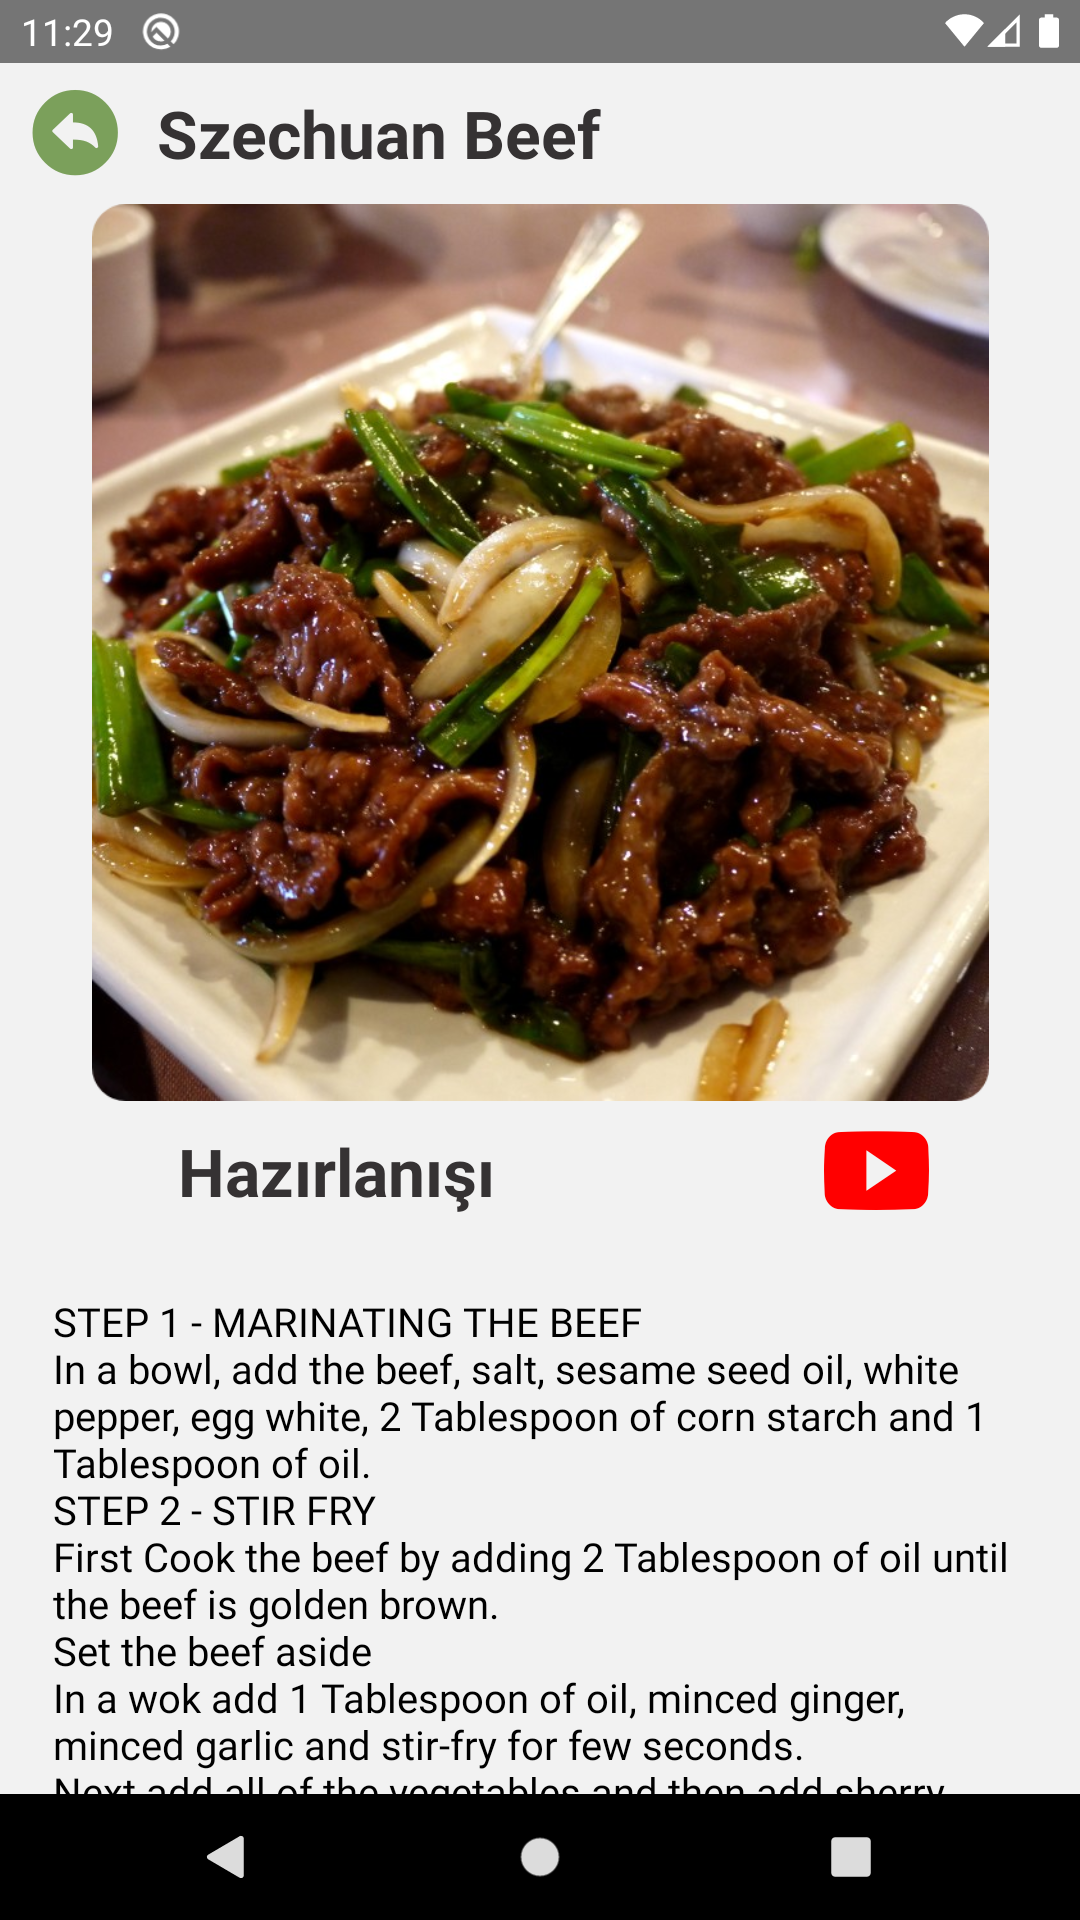
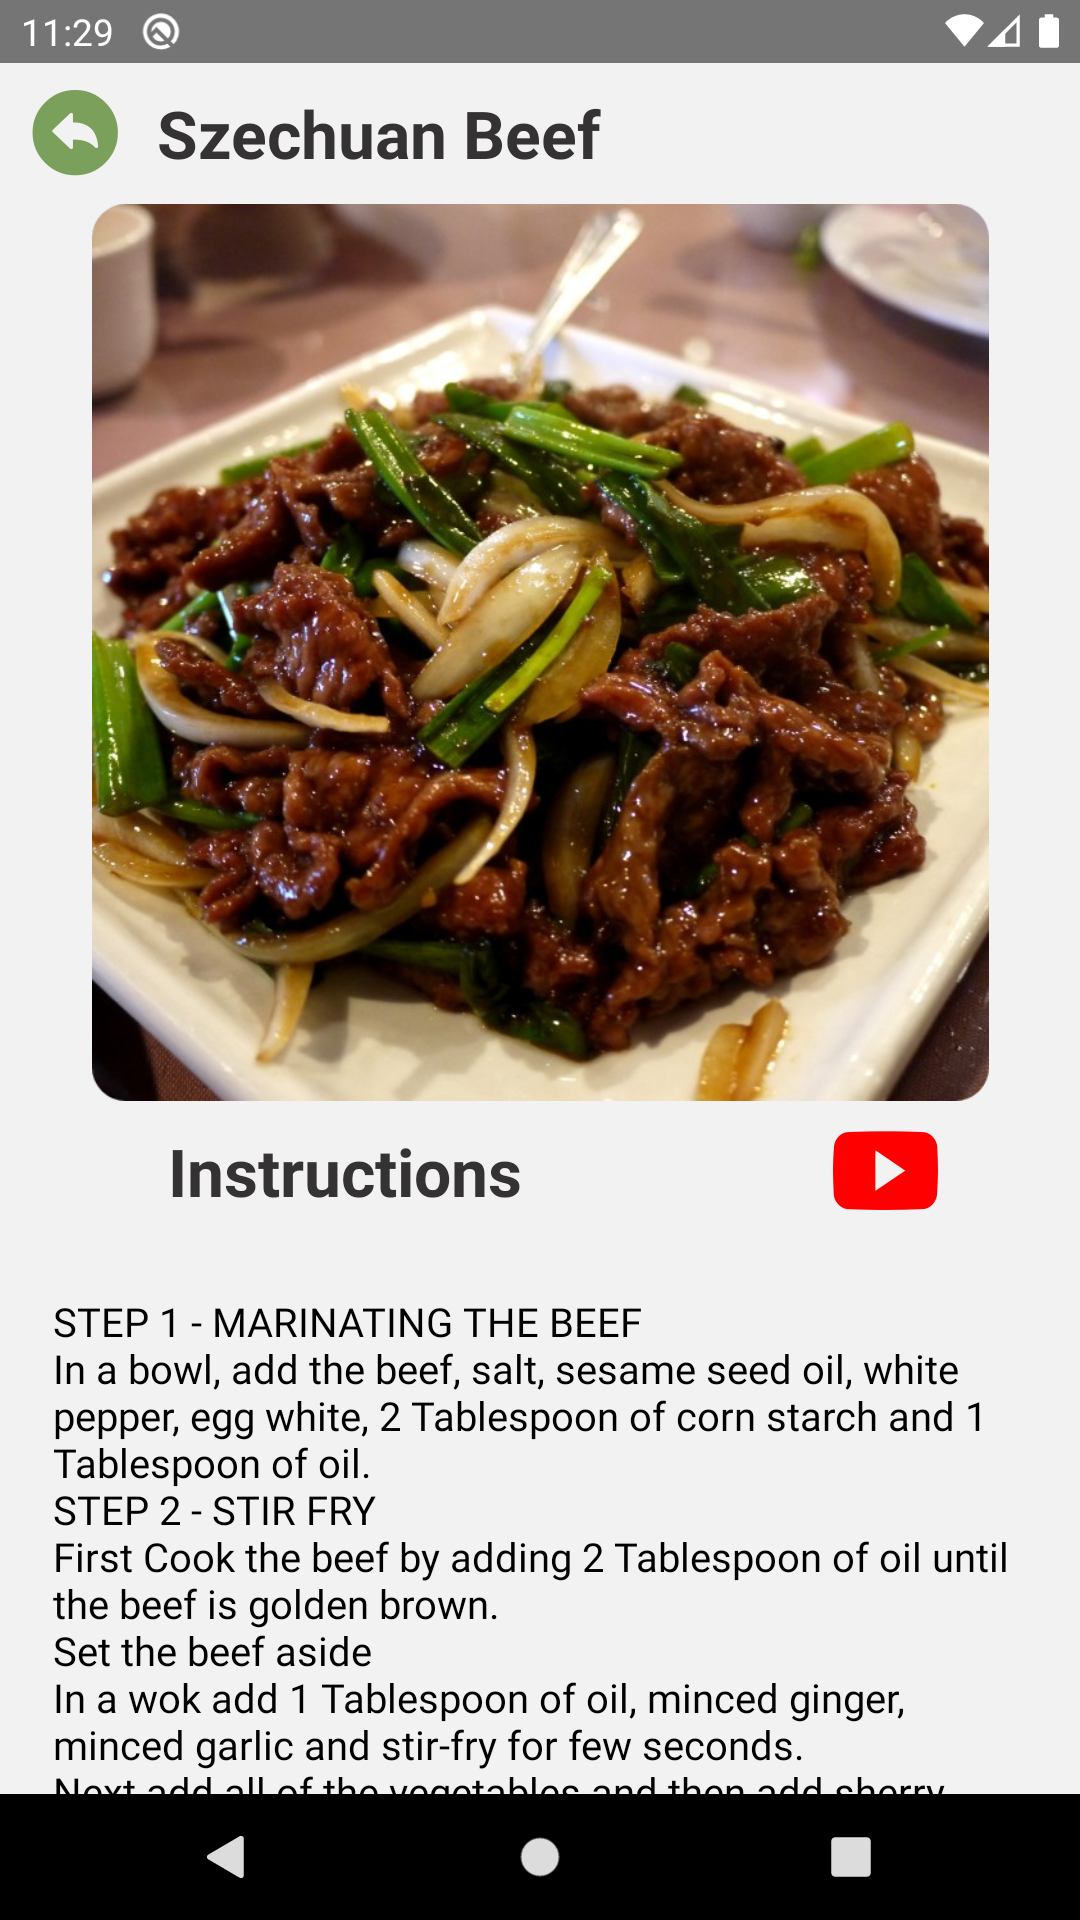
update Readme.md

Changed region(s): [[0.1528, 0.5938, 0.4889, 0.625], [0.7639, 0.5938, 0.825, 0.625], [0.8556, 0.5938, 0.8861, 0.625]]

diff --git a/src/containers/FoodDetail.js b/src/containers/FoodDetail.js
@@ -56,7 +56,7 @@ function FoodDetail({navigation, route}) {
               alignItems: 'center',
               justifyContent: 'space-around',
             }}>
-            <Text style={food_detail.title}>Hazırlanışı</Text>
+            <Text style={food_detail.title}>Instructions</Text>
             <Icon name="logo-youtube" onPress={() => setShowWebView(true)} color="red" size={40} />
           </View>
     
